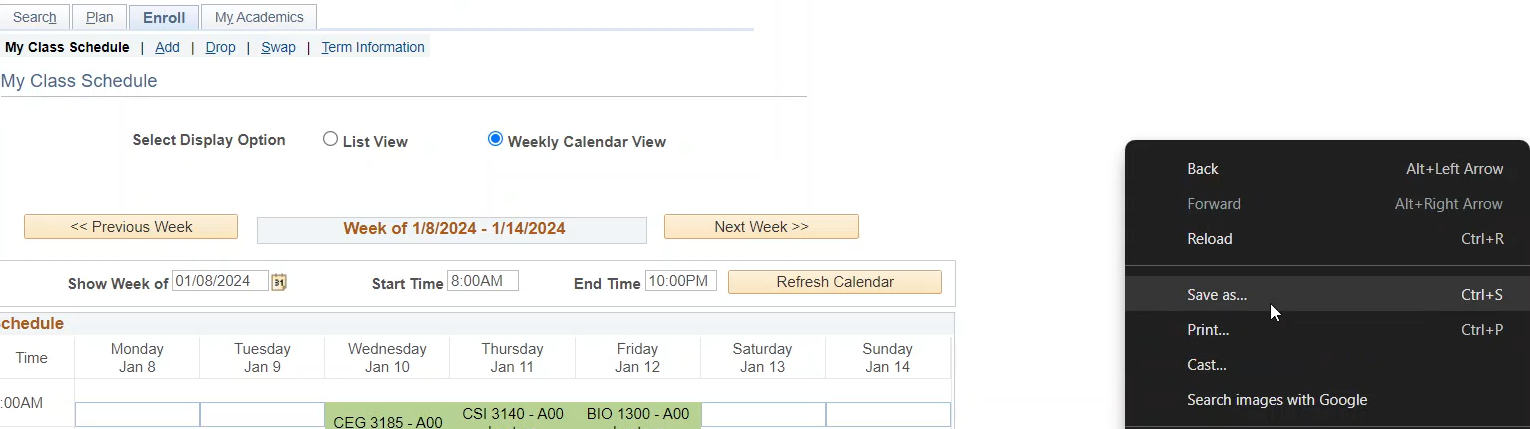
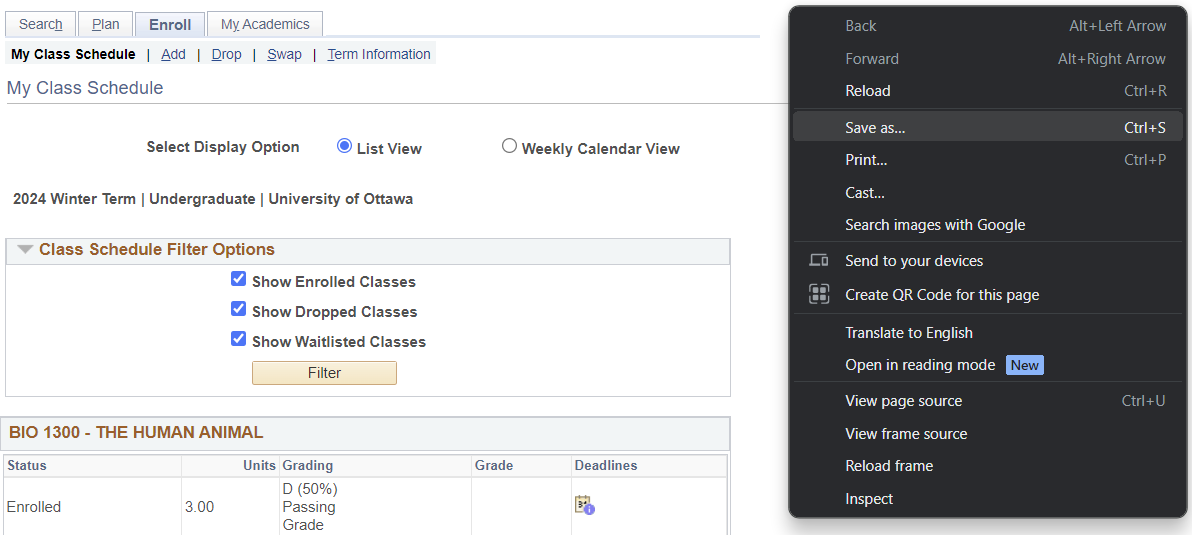
Updating how to instructions

diff --git a/src/routes/+page.svelte b/src/routes/+page.svelte
@@ -110,7 +110,7 @@
     switch (currentPage) {
       case 1:
         tutorialContentImg = step1;
-        tutorialContentText = 'Navigate to the "My Class Schedule" through UOZone and select on the weekly calendar view';
+        tutorialContentText = 'Navigate to the "My Class Schedule" through UOZone. Ensure it is in the "List View"';
         break;
       case 2:
         tutorialContentImg = step2;
@@ -130,7 +130,6 @@
     }
   }
 
-  let arrows;
   onMount(() => {
     const uploadBox = document.getElementById('upload-box');
     if (uploadBox) {
@@ -140,15 +139,6 @@
 </script>
 
 <style>
-  .btn {
-    -webkit-border-radius: 5px;
-    -moz-border-radius: 5px;
-    font-weight: bold;
-    border: 1px solid black;
-    border-radius: 5px;
-    padding: 3px;
-    text-decoration: none;
-  }
   #upload-box {
     border: 2px dashed #ccc;
     padding: 20px;
